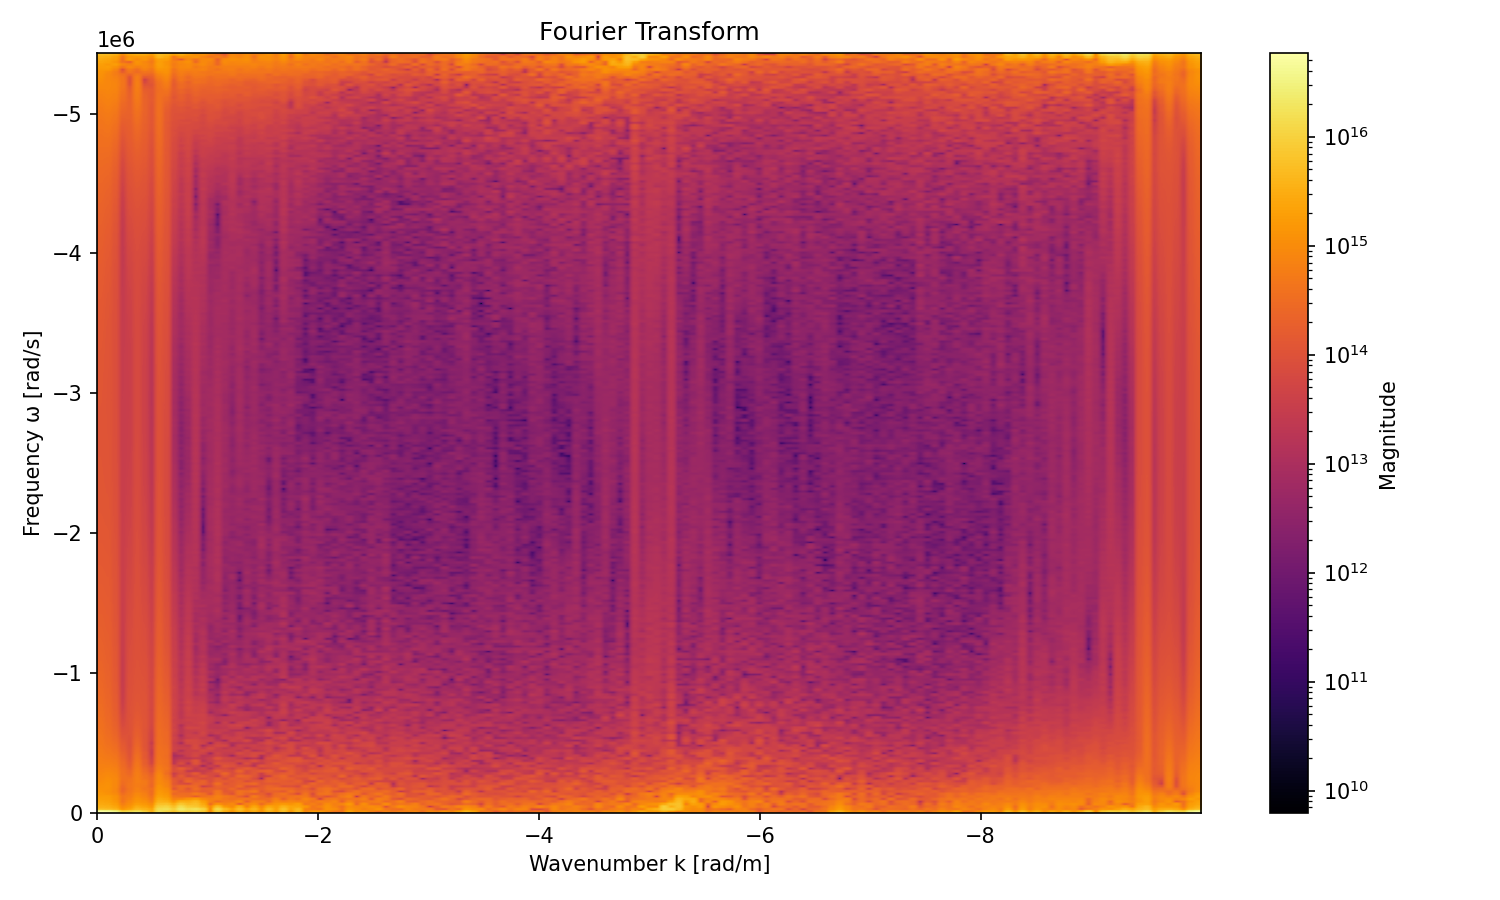
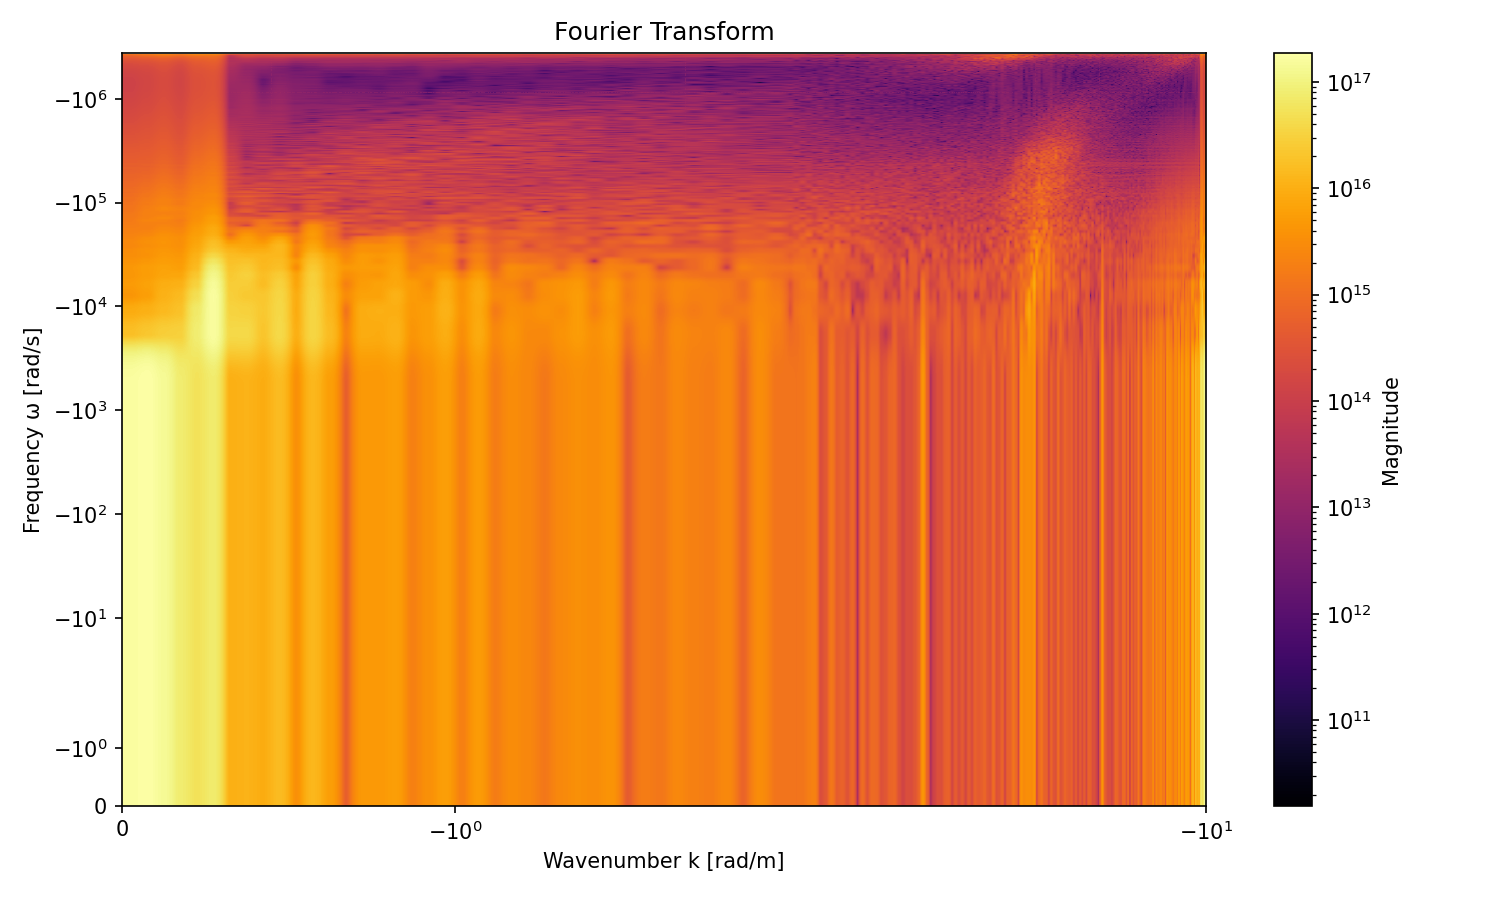
Change the Poisson matrix as a class member to avoid reinitialization at each time step.

diff --git a/include/plasma.hpp b/include/plasma.hpp
@@ -69,7 +69,12 @@ private:
 
     // Temporary storage vectors to avoid repeated allocations
     Eigen::VectorXd m_Phi, m_Phi_star;        // Electric potential [V]
-    Eigen::VectorXd m_E_star;               // Electric field at predictor step [V/m] 
+    Eigen::VectorXd m_E_star;               // Electric field at predictor step [V/m]
+
+    // Poisson solver matrix (precomputed for efficiency)
+    Eigen::MatrixXd m_A;                    // Coefficient matrix for Poisson equation
+    Eigen::ColPivHouseholderQR<Eigen::MatrixXd> m_poisson_solver; // LU decomposition for Poisson solver
+    Eigen::VectorXd m_rho;                  // Charge density vector for Poisson solver
 
 public:
     /**
@@ -115,6 +120,19 @@ public:
         // Initialize pressure gradient vectors
         m_grad_P_i.resize(m_Nx+1); m_grad_P_i.setZero();
         m_grad_P_e.resize(m_Nx+1); m_grad_P_e.setZero();
+
+        // Precompute Poisson solver matrix for efficiency
+        m_A = Eigen::MatrixXd::Zero(m_Nx + 1, m_Nx + 1);
+        for (int i = 1; i <= m_Nx - 1; ++i) {
+            m_A(i, i-1) = 1.0;
+            m_A(i, i)   = -2.0;
+            m_A(i, i+1) = 1.0;
+        }
+        // Mirror BC
+        m_A(0, 0) = -2.0; m_A(0, 1) = 1.0; m_A(0, m_Nx) = 1.0; // Left boundary
+        m_A(m_Nx, 0) = 1.0; m_A(m_Nx, m_Nx-1) = 1.0; m_A(m_Nx, m_Nx) = -2.0; // Right boundary
+        m_poisson_solver.compute(m_A);
+        m_rho.resize(m_Nx+1); m_rho.setZero();
 
         // Compute initial time step based on CFL condition
         compute_time_step();

diff --git a/src/plasma.cpp b/src/plasma.cpp
@@ -2,23 +2,8 @@
 #include "Eigen/src/Core/Matrix.h"
 
 void PlasmaSystem::calc_potential(Eigen::VectorXd& n_i, Eigen::VectorXd& n_e, Eigen::VectorXd& Phi_out) {
-    Eigen::MatrixXd A = Eigen::MatrixXd::Zero(m_Nx + 1, m_Nx + 1);
-    Eigen::VectorXd rho = (m_params.q_i * n_i + m_params.q_e * n_e) / m_params.epsilon_0;
-    Eigen::VectorXd b = - rho * m_dx * m_dx;
-
-    // Interior points: standard second-order finite difference stencil
-    for (int i = 1; i <= m_Nx - 1; ++i) {
-        A(i, i-1) = 1.0;
-        A(i, i)   = -2.0;
-        A(i, i+1) = 1.0;
-        // b(i) already set as -rho*dx^2
-    }
-    // Mirror BC
-    A(0, 0) = -2.0; A(0, 1) = 1.0; A(0, m_Nx) = 1.0; // Left boundary
-    A(m_Nx, 0) = 1.0; A(m_Nx, m_Nx-1) = 1.0; A(m_Nx, m_Nx) = -2.0; // Right boundary
-
-    // Solve linear system using QR decomposition
-    Phi_out = A.colPivHouseholderQr().solve(b);
+    m_rho = -(m_params.q_i * n_i + m_params.q_e * n_e) / m_params.epsilon_0 * m_dx * m_dx;
+    Phi_out = m_poisson_solver.solve(m_rho);
 }
 
 void PlasmaSystem::calc_electric_field(Eigen::VectorXd& Phi_in, Eigen::VectorXd& E_out) {

diff --git a/src/plot_time.py b/src/plot_time.py
@@ -166,10 +166,12 @@ def fourier_analysis():
 
     plt.figure(figsize=(10, 6))
     extent = [k[0], k[-1], omega[0], omega[-1]]
-    plt.imshow(magnitude, extent=extent, aspect='auto', origin='lower', cmap='inferno', norm = matplotlib.colors.LogNorm())
+    plt.imshow(magnitude, extent=extent, aspect='auto', origin='lower', cmap='inferno', norm=matplotlib.colors.LogNorm())
     plt.colorbar(label='Magnitude')
     plt.xlabel('Wavenumber k [rad/m]')
     plt.ylabel('Frequency ω [rad/s]')
+    plt.xscale('symlog')
+    plt.yscale('symlog')
     plt.title('Fourier Transform')
     plt.tight_layout()
     plt.savefig("../image/fourier_analysis.png", dpi=150)
@@ -177,5 +179,5 @@ def fourier_analysis():
 
 if __name__ == "__main__":
     plot_time_evolution()
-    animate_time_evolution()
     fourier_analysis()
+    animate_time_evolution()

diff --git a/src/main.cpp b/src/main.cpp
@@ -10,7 +10,7 @@ int main() {
     // Spatial domain
     double x0 = 0.0;              // Start position [m]
     double xf = 1e-1;              // End position [m]
-    int Nx = 150;                 // Number of spatial points
+    int Nx = 200;                 // Number of spatial points
     double dx = (xf - x0) / (Nx + 1);
     
     // Spatial grid
@@ -21,8 +21,8 @@ int main() {
     
     // Time domain
     double t0 = 0.0;              // Start time [s]
-    double tf = 5e-8;             // End time [s]
-    double dt_data = 1e-10;        // Data saving interval [s]
+    double tf = 1e-7;             // End time [s]
+    double dt_data = 1e-9;        // Data saving interval [s]
     
     std::cout << "=== Simulation Parameters ===" << std::endl;
     std::cout << "Spatial domain: [" << x0 << ", " << xf << "] m" << std::endl;
